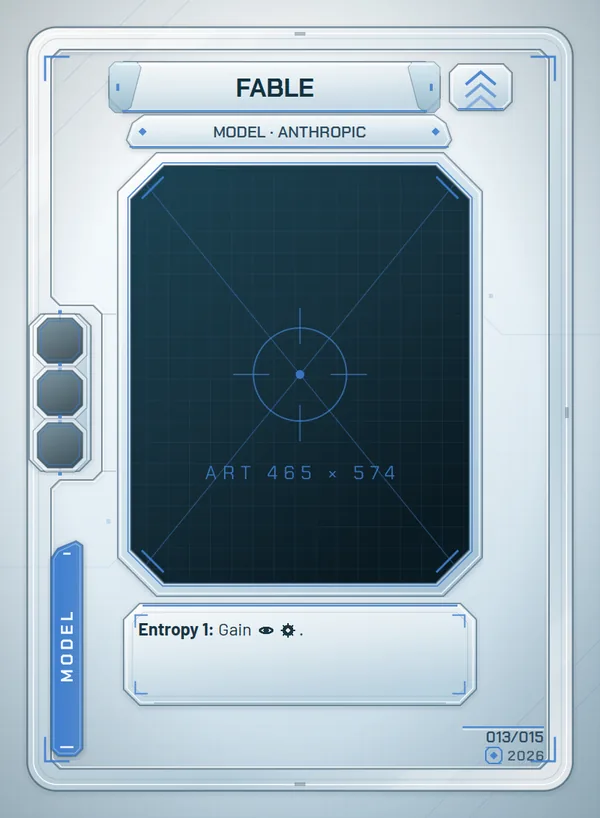
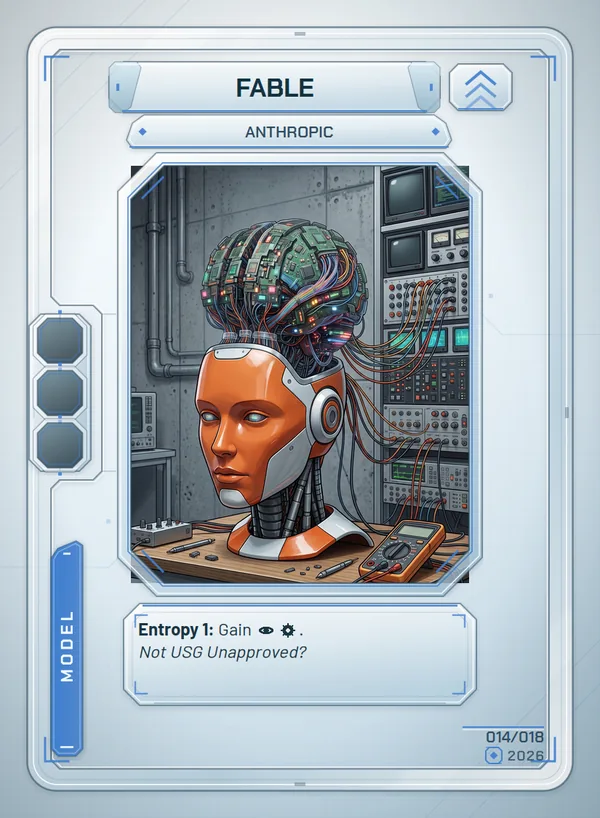
Pull the card updates: renames, real art, two stubs, Algorithmic Intervention
Syncs with the design repo's Sam-feedback batch (18 cards, up from 15).

- AgentBrowser -> Browserbase (cost is now attention+automation -> value+
  attention), Y-Combinator -> YC, Parallelism -> Parallel Subagents ("Put two
  Agent tokens into play. Entropy 1."). Token Limiter's vector is Constraint and
  its text now reads "Each context holds one fewer card", which is what the
  engine already did.
- Real per-card art and flavour lines replace the placeholder windows.
- NEW Algorithmic Intervention (Subversion), split out of Jailbreak: a
  CONSTRAINED hijack. Left unwired on purpose -- "differs by no more than two
  elements" needs the printed hand tokens to compare, which the eval defs don't
  carry. A plain hijack would swap to an arbitrary objective, wrong in the
  player's favour or against it at random, so it logs and does nothing.
- NEW stubs Dario's AI Doom and Theo Rant: registered so their ids and art
  resolve, but deliberately NOT in DECK_RECIPE -- a card that does nothing is a
  dead draw and would distort a playtest. They read "Mechanics not designed yet"
  in hand.

Printed subheads are flavour, so where one was dropped the mechanical trait is
kept and commented (Browserbase prints "Browser" but is still a Tool; Fable
prints "Anthropic" but is still a Model; Human-in-the-Loop prints nothing but
is still a Response).

Gates: npm run typecheck -> 0 errors; npm run build -> clean. Verified in the
[…]

Changed region(s): [[0.21, 0.1528, 0.78, 0.7335], [0.24, 0.7946, 0.51, 0.8252], [0.84, 0.8863, 0.87, 0.9169]]

diff --git a/src/games/mastra-and-commander/cards/cardSet.ts b/src/games/mastra-and-commander/cards/cardSet.ts
@@ -28,6 +28,8 @@ export const MASTRA: FrameworkDef = {
   id: 'MASTRA',
   name: 'Mastra',
   freeTrait: 'Agent',
+  // Printed subhead is [TypeScript, Open Source]; 'Agent' is the trait the
+  // free-play rule keys on, and lives in freeTrait rather than the type line.
   rulesText: 'The first **Agent** played each round has no cost and incurs no Entropy.',
 }
 
@@ -51,12 +53,14 @@ export const AGENT_TOKEN: TokenDef = {
 
 export const OPERATOR_CARDS: OperatorCardDef[] = [
   {
-    id: 'OP-AGENTBROWSER',
-    name: 'AgentBrowser',
+    id: 'OP-BROWSERBASE',
+    name: 'Browserbase',
     supertype: 'persistent',
-    traits: ['Tool'],
-    consume: ['attention'],
-    produce: ['technology', 'generic'],
+    // Printed subhead is 'Browser'; 'Tool' is the mechanical trait that makes
+    // it installable as an MCP server.
+    traits: ['Tool', 'Browser'],
+    consume: ['attention', 'technology'],
+    produce: ['capital', 'attention'],
     contributes: [{ color: 'amber', shape: 'pentagon' }],
     // "Call: Draw 1. Discard 1. Do not add entropy." — the no-entropy clause is
     // already true of every call, so it reads as reassurance, not an exception.
@@ -90,8 +94,8 @@ export const OPERATOR_CARDS: OperatorCardDef[] = [
       + 'If you do, discard five cards from the top of the operator deck.',
   },
   {
-    id: 'OP-Y-COMBINATOR',
-    name: 'Y-Combinator',
+    id: 'OP-YC',
+    name: 'YC',
     supertype: 'ephemeral',
     traits: ['Event'],
     consume: ['attention', 'technology'],
@@ -105,16 +109,47 @@ export const OPERATOR_CARDS: OperatorCardDef[] = [
   },
 ]
 
+/**
+ * Workshop stubs — real cards with no mechanics yet ("STUB — mechanics TBD").
+ *
+ * Defined so their ids, names and art exist, but deliberately LEFT OUT of
+ * DECK_RECIPE: a card that does nothing is a dead draw, and salting the deck
+ * with them would distort a playtest. Add them to the recipe once designed.
+ * They are unrelated to each other and are NOT a "rant" archetype.
+ */
+export const STUB_CARDS: OperatorCardDef[] = [
+  {
+    id: 'OP-DARIOS-AI-DOOM',
+    name: "Dario's AI Doom",
+    supertype: 'ephemeral',
+    traits: [],
+    consume: [],
+    produce: [],
+    contributes: [],
+    rulesText: 'STUB — mechanics TBD.',
+  },
+  {
+    id: 'OP-THEO-RANT',
+    name: 'Theo Rant',
+    supertype: 'ephemeral',
+    traits: [],
+    consume: [],
+    produce: [],
+    contributes: [],
+    rulesText: 'STUB — mechanics TBD.',
+  },
+]
+
 // ── Features ──────────────────────────────────────────────────────────────
 
 export const FEATURE_CARDS: FeatureCardDef[] = [
   {
-    id: 'FEAT-PARALLELISM',
-    name: 'Parallelism',
+    id: 'FEAT-PARALLEL-SUBAGENTS',
+    name: 'Parallel Subagents',
     traits: ['Concurrency'],
     // The only Agent source in the set besides Mastra's free first one.
     effect: { kind: 'spawnAgents', n: 2, entropy: 1 },
-    rulesText: 'Spawn two subagents.\n**Resolve:** Only 1 entropy is added this way.',
+    rulesText: 'Put two Agent tokens into play. **Entropy 1.**',
   },
 ]
 
@@ -124,10 +159,10 @@ export const ENTROPY_CARDS: EntropyCardDef[] = [
   {
     id: 'EN-TOKEN-LIMITER',
     name: 'Token Limiter',
-    traits: ['Noise'],
+    traits: ['Constraint'],
     // Ongoing: every row's ceiling drops by 1 while this is on the threat row.
     effect: { kind: 'ongoing', ongoing: { kind: 'ceilingReduction', n: 1 } },
-    rulesText: 'Maximum context per agent is reduced by 1.',
+    rulesText: '**Ongoing:** Each context holds one fewer card.',
   },
   {
     id: 'EN-PII-LEAK',
@@ -156,6 +191,18 @@ export const ENTROPY_CARDS: EntropyCardDef[] = [
       + 'card in play. That card no longer contributes to your eval.',
   },
   {
+    id: 'EN-ALGORITHMIC-INTERVENTION',
+    name: 'Algorithmic Intervention',
+    traits: ['Subversion'],
+    // A CONSTRAINED hijack: not any objective, but a near neighbour. Split out
+    // of Jailbreak in the Sam-feedback batch.
+    // NOT WIRED YET — "differs by no more than two elements" needs the printed
+    // hand tokens to compare, which the eval defs don't carry yet.
+    effect: { kind: 'hijack', unimplemented: true },
+    rulesText: 'Replace the current eval with an eval that differs by no more '
+      + 'than two elements.',
+  },
+  {
     id: 'EN-MODEL-COLLAPSE',
     name: 'Model Collapse',
     traits: ['Pollution'],
@@ -173,6 +220,7 @@ export const EVAL_CARDS: EvalCardDef[] = [
     name: 'Personal Tech Support',
     difficulty: 1,
     par: 4,
+    traits: ['Consumer'],
     // hand: [cyan/*, cyan/*, amber/*]
     patterns: [
       { kind: 'countOfColor', color: 'cyan', n: 2 },
@@ -186,6 +234,7 @@ export const EVAL_CARDS: EvalCardDef[] = [
     name: 'Recruiter Agent',
     difficulty: 2,
     par: 5,
+    traits: ['Human Resources'],
     // hand: [violet/*, violet/*, violet/*, amber/*]
     patterns: [
       { kind: 'countOfColor', color: 'violet', n: 3 },
@@ -202,6 +251,7 @@ export const MODEL_CARDS: ModelDef[] = [
   {
     id: 'MODEL-FABLE',
     name: 'Fable',
+    // Printed subhead is 'Anthropic'; 'Model' is the mechanical trait.
     traits: ['Model', 'Anthropic'],
     grants: [],
     // "Entropy 1:" is a COST — feed one Entropy card to the stack, then gain.
@@ -234,21 +284,22 @@ export const LOADOUT_CARDS: LoadoutDef[] = [
 export const DECK_RECIPE = {
   /** Operator deck: the four operator cards, plus findable upgrades. */
   operator: {
-    'OP-AGENTBROWSER': 5,
+    'OP-BROWSERBASE': 5,
     'OP-SOCIAL-MEDIA-MANAGER': 5,
     'OP-HUMAN-IN-THE-LOOP': 4,
-    'OP-Y-COMBINATOR': 3,
+    'OP-YC': 3,
     // Upgrades live in the operator deck so Y-Combinator's tutor can find them
     // (owner ruling). One of each is already in play at setup.
     'MODEL-FABLE': 2,
     'LOADOUT-SANDBOX': 2,
-    'FEAT-PARALLELISM': 3,
+    'FEAT-PARALLEL-SUBAGENTS': 3,
   } as Record<string, number>,
   /** Entropy deck — the stack draws from here all match. */
   entropy: {
     'EN-TOKEN-LIMITER': 4,
     'EN-PII-LEAK': 3,
-    'EN-JAILBREAK': 4,
+    'EN-JAILBREAK': 3,
+    'EN-ALGORITHMIC-INTERVENTION': 3,
     'EN-MODEL-COLLAPSE': 4,
   } as Record<string, number>,
   /** Objectives, one revealed per round. */

diff --git a/src/games/mastra-and-commander/rules/entropyHelpers.ts b/src/games/mastra-and-commander/rules/entropyHelpers.ts
@@ -151,6 +151,14 @@ export function applyEntropyEffect(
 
     // ── GOAL-HIJACK ──────────────────────────────────────────────────────
     case 'hijack': {
+      if (effect.unimplemented) {
+        // Algorithmic Intervention's "differs by no more than two elements"
+        // needs the printed hand tokens to compare, which the eval defs do not
+        // carry yet. Doing a PLAIN hijack here would be wrong in the player's
+        // favour or against it at random, so it does nothing and says so.
+        log(G, 'Algorithmic Intervention is not wired yet — no objective swap.')
+        break
+      }
       // BEST-GUESS(Q14): minimal open swap — the objective is exchanged for the
       // next Eval card. The hidden true-objective layer the design flags as the
       // "signature mechanic" is deferred (it needs a hidden-information design

diff --git a/src/games/mastra-and-commander/cards/unimplemented.ts b/src/games/mastra-and-commander/cards/unimplemented.ts
@@ -18,6 +18,9 @@ import { LOADOUT_CARDS, MODEL_CARDS, ENTROPY_CARDS } from './cardSet'
 export function unimplementedNote(cardId: string): string | null {
   if (hasOperatorCard(cardId)) {
     const def = getOperatorCard(cardId)
+    if (def.rulesText.startsWith('STUB')) {
+      return 'Mechanics not designed yet — this card does nothing.'
+    }
     if (def.event?.kind === 'tutor' && def.event.unimplemented) {
       return 'Search-your-deck is not wired yet.'
     }
@@ -42,6 +45,9 @@ export function unimplementedNote(cardId: string): string | null {
     const effect = getEntropyCard(cardId).effect
     if (effect.kind === 'ongoing' && effect.trigger?.unimplemented) {
       return 'Its Trigger is not wired yet — it will not leave on its own.'
+    }
+    if (effect.kind === 'hijack' && effect.unimplemented) {
+      return 'The constrained eval swap is not wired yet — it does nothing.'
     }
     return null
   }

diff --git a/src/games/mastra-and-commander/cards/types.ts b/src/games/mastra-and-commander/cards/types.ts
@@ -128,7 +128,7 @@ export type EntropyEffect =
   /** GOAL-HIJACK: swap the objective the Operator is scored against.
    *  BEST-GUESS(Q14): minimal open swap with the next Eval card — the hidden
    *  true-objective layer is deferred. */
-  | { kind: 'hijack' }
+  | ({ kind: 'hijack' } & MaybeUnimplemented)
   /** Destroy an installed server (the attack surface of design §4). Targeted. */
   | { kind: 'attackServer' }
   /** Targeted-entropy event (design §4: e.g. US-Gov vs Chinese models) — hits a
@@ -207,6 +207,8 @@ export type EvalPattern =
 export interface EvalCardDef {
   id: string
   name: string
+  /** Printed subhead, e.g. ['Consumer']. Flavour only — no rules hang on it. */
+  traits?: string[]
   /** ALL patterns must hold to pass the eval. */
   patterns: EvalPattern[]
   /** Context size at or under which the pass counts as `best` (design: par). */

diff --git a/src/games/mastra-and-commander/cards/registry.ts b/src/games/mastra-and-commander/cards/registry.ts
@@ -16,7 +16,7 @@ import type {
 } from './types'
 import {
   AGENT_TOKEN, ENTROPY_CARDS, EVAL_CARDS, FEATURE_CARDS, LOADOUT_CARDS,
-  MASTRA, MODEL_CARDS, OPERATOR_CARDS,
+  MASTRA, MODEL_CARDS, OPERATOR_CARDS, STUB_CARDS,
 } from './cardSet'
 
 function index<T extends { id: string }>(defs: T[]): Record<string, T> {
@@ -28,7 +28,8 @@ function index<T extends { id: string }>(defs: T[]): Record<string, T> {
   return map
 }
 
-const OPERATOR_BY_ID = index(OPERATOR_CARDS)
+// Stubs are registered (so their ids and art resolve) but are not dealt.
+const OPERATOR_BY_ID = index([...OPERATOR_CARDS, ...STUB_CARDS])
 const ENTROPY_BY_ID = index(ENTROPY_CARDS)
 const EVAL_BY_ID = index(EVAL_CARDS)
 const FEATURE_BY_ID = index(FEATURE_CARDS)

diff --git a/scripts/import-card-art.py b/scripts/import-card-art.py
@@ -33,17 +33,20 @@ BACK_WIDTH = 400   # never shown large
 QUALITY = 82
 
 # cards.yml order -> engine card id (src/games/mastra-and-commander/cards/cardSet.ts).
-# The first playable 15-card set (owner's rules pass, 2026-08-13).
+# The first playable set (owner's rules pass, 2026-08-13; 18 cards after the
+# Sam-feedback batch: renames, Algorithmic Intervention, and two stubs).
 ORDERED_IDS = [
     'MASTRA',
-    'OP-AGENTBROWSER', 'OP-SOCIAL-MEDIA-MANAGER', 'OP-HUMAN-IN-THE-LOOP',
-    'OP-Y-COMBINATOR',
-    'FEAT-PARALLELISM',
-    'EN-TOKEN-LIMITER', 'EN-PII-LEAK', 'EN-JAILBREAK', 'EN-MODEL-COLLAPSE',
+    'OP-BROWSERBASE', 'OP-SOCIAL-MEDIA-MANAGER', 'OP-HUMAN-IN-THE-LOOP',
+    'OP-YC',
+    'FEAT-PARALLEL-SUBAGENTS',
+    'EN-TOKEN-LIMITER', 'EN-PII-LEAK', 'EN-JAILBREAK',
+    'EN-ALGORITHMIC-INTERVENTION', 'EN-MODEL-COLLAPSE',
     'EV-PERSONAL-TECH-SUPPORT', 'EV-RECRUITER-AGENT',
     'MODEL-FABLE',
     'LOADOUT-SANDBOX',
     'TOKEN-AGENT',
+    'OP-DARIOS-AI-DOOM', 'OP-THEO-RANT',
 ]
 
 BACKS = {'back_operator.png': 'back-operator', 'back_entropy.png': 'back-entropy'}
